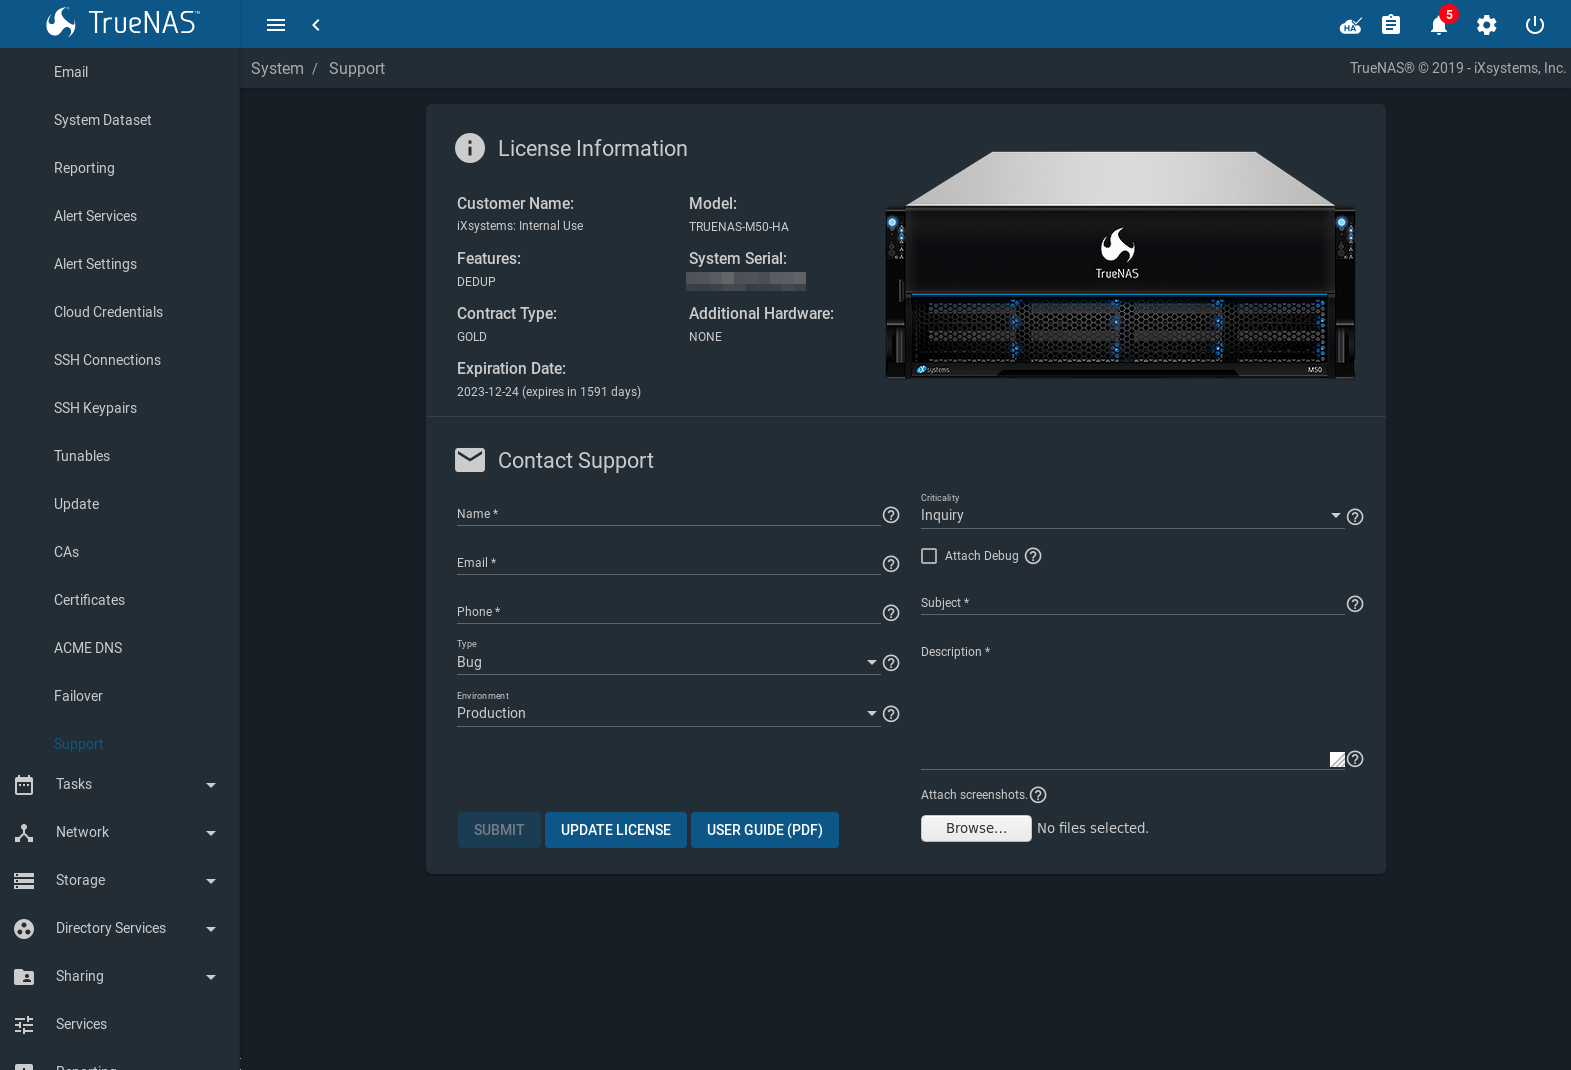
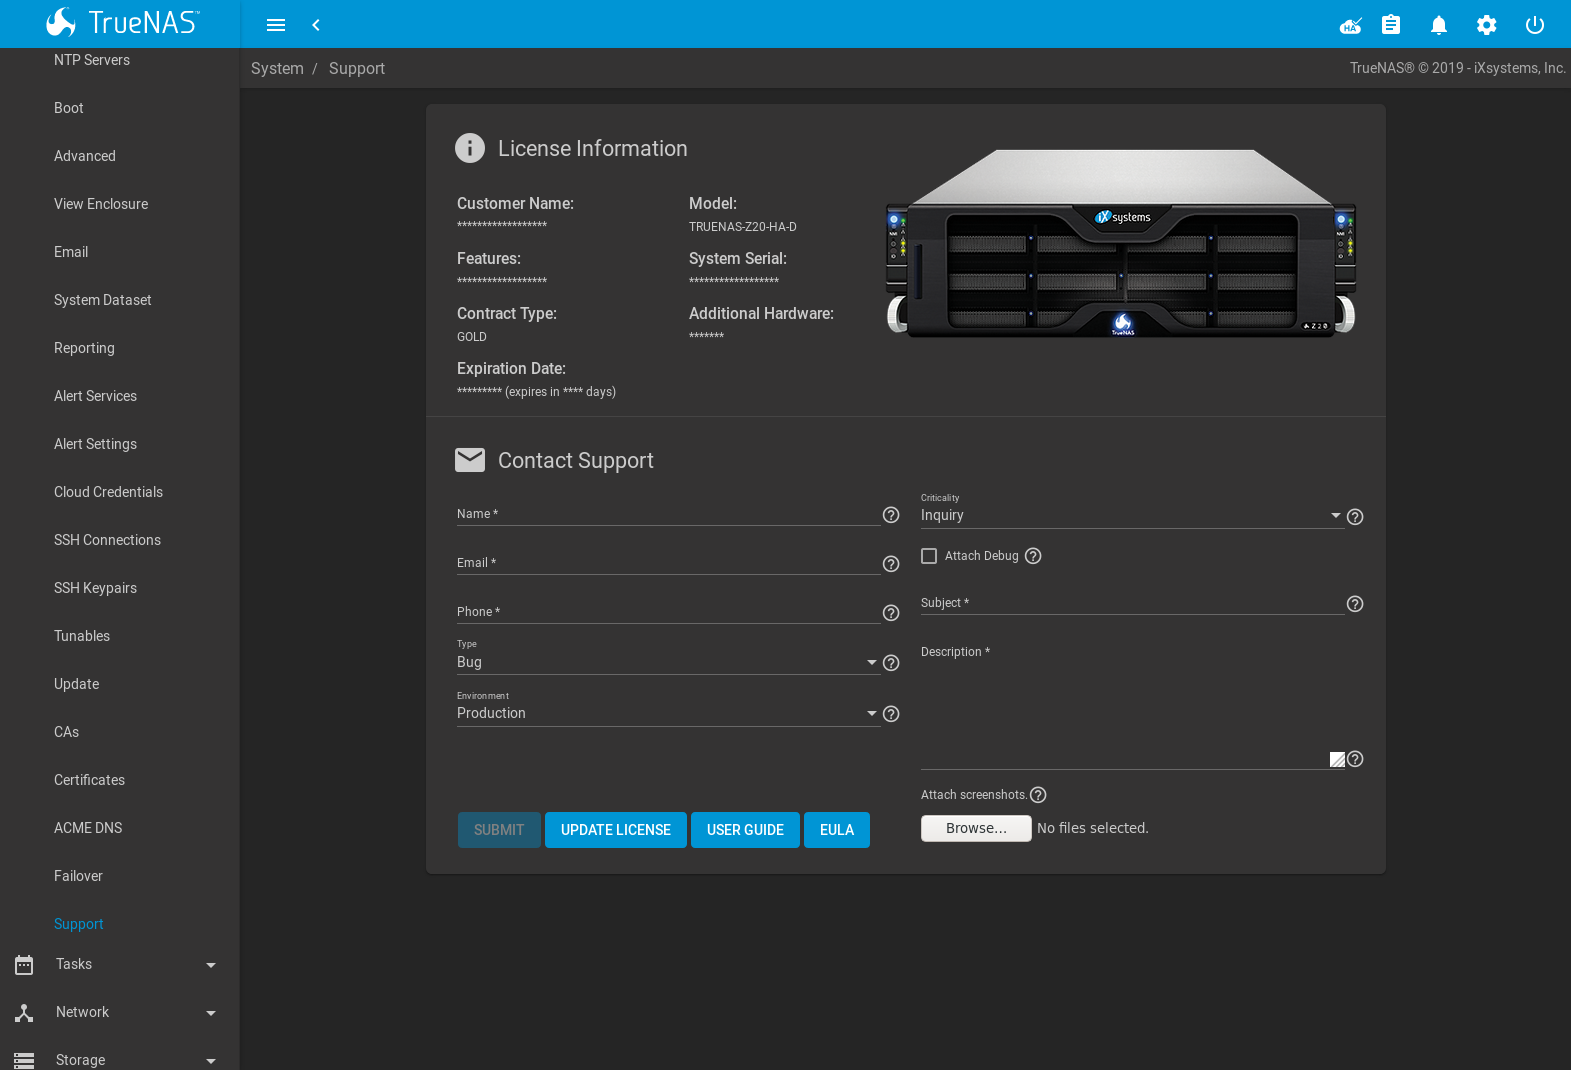
NAS-102920: Add EULA button to TrueNAS Support section. - Update related image - TrueNAS HTML build test: no issues.

diff --git a/userguide/system.rst b/userguide/system.rst
@@ -3178,15 +3178,16 @@ supported hardware.
 If the license expires or additional hardware, features, or
 contract type are required,
 :ref:`contact iXsystems Support <Contacting iXsystems>`. After a new
-license has been provided, click :guilabel:`Update License`, paste in
+license has been provided, click :guilabel:`UPDATE LICENSE`, paste in
 the new license, and click :guilabel:`SAVE LICENSE`. The page updates to
 show the new license details.
 
-:guilabel:`User Guide (PDF)` opens a new browser tab to the iXsystems
-%brand%
+:guilabel:`USER GUIDE` opens a new browser tab to the iXsystems %brand%
 `Information Library <https://www.ixsystems.com/blog/knowledgebase_category/truenas/>`__.
 The %brand% User Guide, product datasheets, %brand% hardware setup
 guides, and task assistance articles are all available in this library.
+
+:guilabel:`EULA` shows the %brand% End User License Agreement.
 
 To generate a support ticket, fill in the fields:
 
